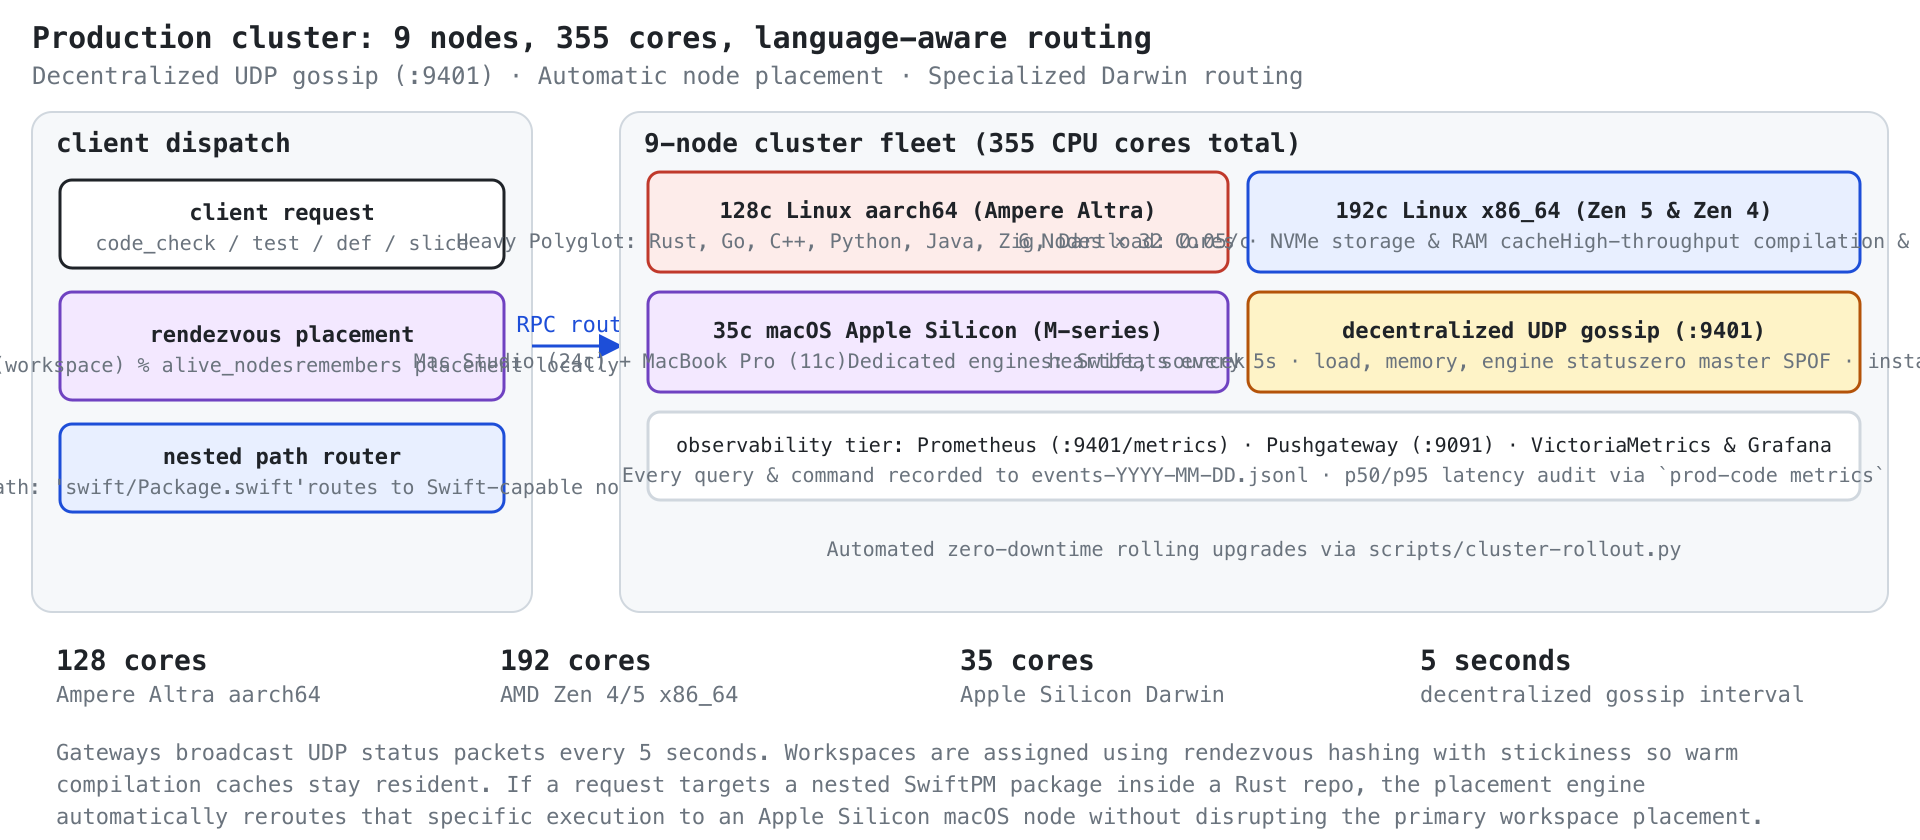
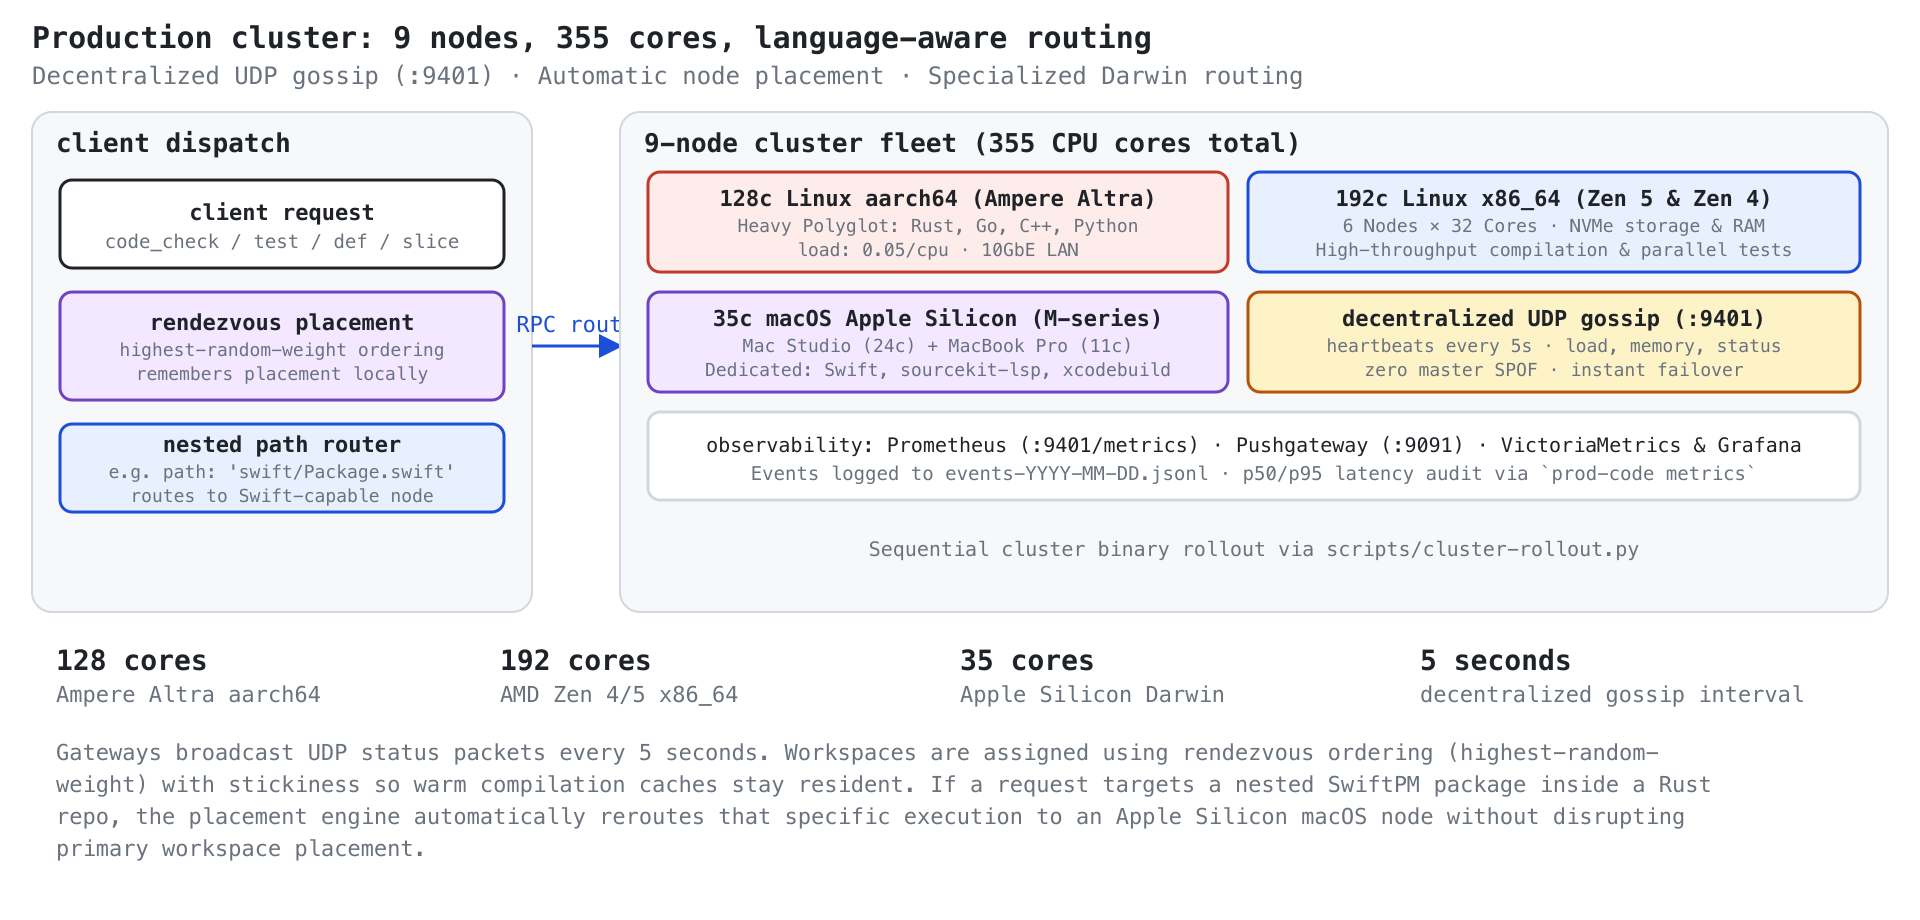
docs: fix release asset names, diagram layout and architecture descriptions
- Use published macOS installer asset names (prod-code-0.3.29-macOS.pkg and .dmg)
  and point Linux/macOS download examples to explicit v0.3.29 release assets
- Update diagram generator and assets to describe isolated worktree overlays over
  shared Salsa base compiler database instead of claiming per-worktree Salsa DBs
- Correct cluster topology figure to describe sequential cluster binary rollout
  via scripts/cluster-rollout.py and highest-random-weight rendezvous placement
- Fix multiline subtitle rendering in scripts/gen_architecture_figures.py box helper
  to prevent text overflow across adjacent boxes, and adjust viewBox canvas heights
  so all captions and paragraphs are fully contained within the viewports
- Replace unconditional safety guarantees in shadow validation figure with accurate
  refusal gate descriptions and force-override documentation
- Re-render all SVG diagrams and 2x PNG raster variants

diff --git a/scripts/gen_architecture_figures.py b/scripts/gen_architecture_figures.py
@@ -45,9 +45,18 @@ def head(W, H, title, sub=None):
 
 def box(x, y, w, h, text, sub=None, fill="white", stroke=INK, bold=True, size=11):
     t = f"<rect x='{x}' y='{y}' width='{w}' height='{h}' rx='6' fill='{fill}' stroke='{stroke}' stroke-width='1.5'/>"
-    t += f"<text x='{x + w / 2}' y='{y + h / 2 + (-2 if sub else 4)}' text-anchor='middle' fill='{INK}' font-size='{size}' font-weight='{'bold' if bold else 'normal'}'>{esc(text)}</text>"
-    if sub:
-        t += f"<text x='{x + w / 2}' y='{y + h / 2 + 13}' text-anchor='middle' fill='{MUTED}' font-size='10'>{esc(sub)}</text>"
+    sub_lines = [line.strip() for line in sub.split('\n')] if sub else []
+    if not sub_lines:
+        t += f"<text x='{x + w / 2}' y='{y + h / 2 + 4}' text-anchor='middle' fill='{INK}' font-size='{size}' font-weight='{'bold' if bold else 'normal'}'>{esc(text)}</text>"
+    elif len(sub_lines) == 1:
+        t += f"<text x='{x + w / 2}' y='{y + h / 2 - 2}' text-anchor='middle' fill='{INK}' font-size='{size}' font-weight='{'bold' if bold else 'normal'}'>{esc(text)}</text>"
+        t += f"<text x='{x + w / 2}' y='{y + h / 2 + 12}' text-anchor='middle' fill='{MUTED}' font-size='9.5'>{esc(sub_lines[0])}</text>"
+    else:
+        start_y = y + (h - (12 + len(sub_lines) * 12)) / 2 + 10
+        t += f"<text x='{x + w / 2}' y='{start_y}' text-anchor='middle' fill='{INK}' font-size='{size}' font-weight='{'bold' if bold else 'normal'}'>{esc(text)}</text>"
+        for i, s_line in enumerate(sub_lines):
+            line_y = start_y + 13 + i * 12
+            t += f"<text x='{x + w / 2}' y='{line_y}' text-anchor='middle' fill='{MUTED}' font-size='9'>{esc(s_line)}</text>"
     return t
 
 def panel(x, y, w, h, title, fill=PANEL):
@@ -74,8 +83,8 @@ def write(name: str, s: Sequence[str]) -> None:
 # ==============================================================================
 # 1. Architecture Overview (Ringfire style)
 # ==============================================================================
-W, H = 960, 420
-s = head(W, H, "Architecture: developer workstation to 9-node cluster, Salsa DB per worktree",
+W, H = 960, 480
+s = head(W, H, "Architecture: developer workstation to 9-node cluster, isolated worktree overlays",
          "Mirroring over mounting · Base64 delta sync · In-memory shadow validation · Gossip routing")
 
 # Left: Workstation Panel
@@ -119,15 +128,15 @@ s.append(arrow(743, 124, 600, 150))
 s.append(arrow(743, 124, 743, 150))
 s.append(arrow(743, 124, 870, 150))
 
-s.append(box(526, 150, 140, 52, "primary Salsa DB", "rust-analyzer in-proc", fill=RING_FILL, stroke=RING))
-s.append(box(676, 150, 134, 52, "shadow engine", "in-memory /dev/shm", fill=OK_FILL, stroke=OK))
+s.append(box(526, 150, 140, 52, "primary Salsa DB", "rust-analyzer in-proc\nshared base engine", fill=RING_FILL, stroke=RING))
+s.append(box(676, 150, 134, 52, "shadow engine", "in-memory /dev/shm\nisolated RAM-disk", fill=OK_FILL, stroke=OK))
 s.append(box(820, 150, 110, 52, "remote exec", "cargo / go / pytest", fill="white", stroke=INK))
 
 s.append(f"<text x='596' y='218' text-anchor='middle' fill='{MUTED}' font-size='10'>answers all queries</text>")
 s.append(f"<text x='743' y='218' text-anchor='middle' fill='{OK}' font-size='10'>0 cache poison</text>")
 s.append(f"<text x='875' y='218' text-anchor='middle' fill='{MUTED}' font-size='10'>warm target/</text>")
 
-s.append(box(526, 234, 404, 36, "fleet topology: 128c aarch64 (Altra) + 192c x86_64 (Zen4/5) + 35c macOS (M-series)", "Swift PM auto-routed to macOS · polyglot on Linux · 30m idle evict · 7d prune", fill="white", stroke=GRID, bold=False, size=10))
+s.append(box(526, 234, 404, 38, "fleet topology: 128c Altra + 192c Zen4/5 + 35c M-series", "Swift PM routed to macOS · polyglot on Linux · 30m evict · 7d prune", fill="white", stroke=GRID, bold=False, size=10))
 
 # Bottom Stat Callouts & Paragraph
 y = 345
@@ -140,14 +149,14 @@ for x, val, label in [
     s.append(f"<text x='{x}' y='{y}' fill='{INK}' font-weight='bold' font-size='14'>{esc(val)}</text>")
     s.append(f"<text x='{x}' y='{y + 16}' fill='{MUTED}' font-size='11'>{esc(label)}</text>")
 
-s.append(para(28, 388, "Workspaces synchronize over 10 GbE LAN using incremental Base64 diffs rather than slow network mounts (NFS/SSHFS). Each git worktree owns an isolated in-process Salsa compiler database (<repo>--wt-<hash>) with zero cross-session cache contamination. Edits are pre-checked on a dedicated RAM-disk shadow engine before disk writes. The cluster gossip mesh auto-routes requests to the quietest capable node, steering Apple Swift workloads to macOS Apple Silicon nodes and polyglot builds to high-throughput 128-core Linux nodes.", 130))
+s.append(para(28, 388, "Workspaces synchronize over 10 GbE LAN using incremental Base64 diffs rather than slow network mounts (NFS/SSHFS). Each git worktree attaches an isolated session overlay (<repo>--wt-<hash>) to a shared base compiler database (SharedWorkspace::with_base) with zero cross-session cache contamination. Edits are pre-checked on a dedicated RAM-disk shadow engine before disk writes. The cluster gossip mesh auto-routes requests to the quietest capable node, steering Apple Swift workloads to macOS Apple Silicon nodes and polyglot builds to high-throughput 128-core Linux nodes.", 125))
 
 write("architecture-overview.svg", s)
 
 # ==============================================================================
 # 2. Dual-Engine Shadow Validation Pipeline
 # ==============================================================================
-W, H = 960, 360
+W, H = 960, 400
 s = head(W, H, "Dual-engine shadow validation: speculative edits tested without cache poisoning",
          "Dry-run proposals evaluated in isolated RAM-disk workspace · Primary Salsa DB stays clean and warm")
 
@@ -167,7 +176,7 @@ s.append(box(350, 86, 342, 60, "primary Salsa DB (rust-analyzer)", "serves all r
 s.append(f"<text x='521' y='160' text-anchor='middle' fill='{RING}' font-weight='bold' font-size='10'>ISOLATED: ZERO CRATE RE-INFER DELAY (saves 21s)</text>")
 
 # Shadow Engine Box
-s.append(box(350, 172, 342, 66, "shadow engine (in-memory /dev/shm)", "applies proposed overlay in RAM disk · runs analyzer diagnostics\nchecks JSON, Markdown, SVG · zero files written to disk", fill=OK_FILL, stroke=OK))
+s.append(box(350, 172, 342, 66, "shadow engine (in-memory /dev/shm)", "applies proposed overlay in RAM disk · runs diagnostics\nchecks JSON, Markdown, SVG · no disk writes", fill=OK_FILL, stroke=OK))
 
 s.append(arrow(706, 116, 766, 116, "query result", INK, "a"))
 s.append(arrow(706, 205, 766, 205, "winner diff", OK, "g"))
@@ -183,26 +192,26 @@ for x, val, label in [
     (28, "21 seconds", "saved per query (no crate re-infer)"),
     (280, "0.4 seconds", "per shadow-run candidate fix"),
     (540, "3+ hypotheses", "evaluated concurrently in RAM"),
-    (780, "100% safe", "zero broken references written"),
+    (780, "Refusal gate", "blocks compile regressions (force overrides)"),
 ]:
     s.append(f"<text x='{x}' y='{y}' fill='{INK}' font-weight='bold' font-size='14'>{esc(val)}</text>")
     s.append(f"<text x='{x}' y='{y + 16}' fill='{MUTED}' font-size='11'>{esc(label)}</text>")
 
-s.append(para(28, 320, "Validating proposed file edits directly inside a shared language server invalidates warm compiler caches, triggering expensive crate re-inference (over 20s in large repositories). prod-code isolates all speculative edits in dedicated RAM-disk shadow engines. Edits that break public symbols or introduce syntax errors are caught in memory without touching disk or primary state.", 130))
+s.append(para(28, 320, "Validating proposed file edits directly inside a shared language server invalidates warm compiler caches, triggering expensive crate re-inference (over 20s in large repositories). prod-code isolates speculative edits in dedicated RAM-disk shadow engines. Edits that introduce diagnostics or syntax errors are refused in memory without touching disk or primary state, while callers retain the option to force-apply.", 125))
 
 write("shadow-validation-pipeline.svg", s)
 
 # ==============================================================================
 # 3. Cluster Topology & Language Routing
 # ==============================================================================
-W, H = 960, 420
+W, H = 960, 460
 s = head(W, H, "Production cluster: 9 nodes, 355 cores, language-aware routing",
          "Decentralized UDP gossip (:9401) · Automatic node placement · Specialized Darwin routing")
 
 # Left: Client Request Dispatch
 s.append(panel(16, 56, 250, 250, "client dispatch"))
 s.append(box(30, 90, 222, 44, "client request", "code_check / test / def / slice", fill="white", stroke=INK))
-s.append(box(30, 146, 222, 54, "rendezvous placement", "hash(workspace) % alive_nodes\nremembers placement locally", fill=PURPLE_FILL, stroke=PURPLE))
+s.append(box(30, 146, 222, 54, "rendezvous placement", "highest-random-weight ordering\nremembers placement locally", fill=PURPLE_FILL, stroke=PURPLE))
 s.append(box(30, 212, 222, 44, "nested path router", "e.g. path: 'swift/Package.swift'\nroutes to Swift-capable node", fill=NET_FILL, stroke=NET))
 
 s.append(arrow(266, 173, 310, 173, "RPC route", NET, "n"))
@@ -211,21 +220,21 @@ s.append(arrow(266, 173, 310, 173, "RPC route", NET, "n"))
 s.append(panel(310, 56, 634, 250, "9-node cluster fleet (355 CPU cores total)"))
 
 # Node 1
-s.append(box(324, 86, 290, 50, "128c Linux aarch64 (Ampere Altra)", "Heavy Polyglot: Rust, Go, C++, Python, Java, Zig, Dart\nload: 0.05/cpu · 10GbE LAN", fill=RING_FILL, stroke=RING))
+s.append(box(324, 86, 290, 50, "128c Linux aarch64 (Ampere Altra)", "Heavy Polyglot: Rust, Go, C++, Python\nload: 0.05/cpu · 10GbE LAN", fill=RING_FILL, stroke=RING))
 
 # Node 2-7
-s.append(box(624, 86, 306, 50, "192c Linux x86_64 (Zen 5 & Zen 4)", "6 Nodes × 32 Cores · NVMe storage & RAM cache\nHigh-throughput compilation & parallel tests", fill=NET_FILL, stroke=NET))
+s.append(box(624, 86, 306, 50, "192c Linux x86_64 (Zen 5 & Zen 4)", "6 Nodes × 32 Cores · NVMe storage & RAM\nHigh-throughput compilation & parallel tests", fill=NET_FILL, stroke=NET))
 
 # Node 8-9 macOS
-s.append(box(324, 146, 290, 50, "35c macOS Apple Silicon (M-series)", "Mac Studio (24c) + MacBook Pro (11c)\nDedicated engines: Swift, sourcekit-lsp, xcodebuild", fill=PURPLE_FILL, stroke=PURPLE))
+s.append(box(324, 146, 290, 50, "35c macOS Apple Silicon (M-series)", "Mac Studio (24c) + MacBook Pro (11c)\nDedicated: Swift, sourcekit-lsp, xcodebuild", fill=PURPLE_FILL, stroke=PURPLE))
 
 # Gossip Mesh Box
-s.append(box(624, 146, 306, 50, "decentralized UDP gossip (:9401)", "heartbeats every 5s · load, memory, engine status\nzero master SPOF · instant failover", fill=AMBER_FILL, stroke=AMBER))
+s.append(box(624, 146, 306, 50, "decentralized UDP gossip (:9401)", "heartbeats every 5s · load, memory, status\nzero master SPOF · instant failover", fill=AMBER_FILL, stroke=AMBER))
 
 # Telemetry Box
-s.append(box(324, 206, 606, 44, "observability tier: Prometheus (:9401/metrics) · Pushgateway (:9091) · VictoriaMetrics & Grafana", "Every query & command recorded to events-YYYY-MM-DD.jsonl · p50/p95 latency audit via `prod-code metrics`", fill="white", stroke=GRID, bold=False, size=10))
+s.append(box(324, 206, 606, 44, "observability: Prometheus (:9401/metrics) · Pushgateway (:9091) · VictoriaMetrics & Grafana", "Events logged to events-YYYY-MM-DD.jsonl · p50/p95 latency audit via `prod-code metrics`", fill="white", stroke=GRID, bold=False, size=10))
 
-s.append(f"<text x='627' y='278' text-anchor='middle' fill='{MUTED}' font-size='10'>Automated zero-downtime rolling upgrades via scripts/cluster-rollout.py</text>")
+s.append(f"<text x='627' y='278' text-anchor='middle' fill='{MUTED}' font-size='10'>Sequential cluster binary rollout via scripts/cluster-rollout.py</text>")
 
 y = 335
 for x, val, label in [
@@ -237,7 +246,7 @@ for x, val, label in [
     s.append(f"<text x='{x}' y='{y}' fill='{INK}' font-weight='bold' font-size='14'>{esc(val)}</text>")
     s.append(f"<text x='{x}' y='{y + 16}' fill='{MUTED}' font-size='11'>{esc(label)}</text>")
 
-s.append(para(28, 380, "Gateways broadcast UDP status packets every 5 seconds. Workspaces are assigned using rendezvous hashing with stickiness so warm compilation caches stay resident. If a request targets a nested SwiftPM package inside a Rust repo, the placement engine automatically reroutes that specific execution to an Apple Silicon macOS node without disrupting the primary workspace placement.", 130))
+s.append(para(28, 380, "Gateways broadcast UDP status packets every 5 seconds. Workspaces are assigned using rendezvous ordering (highest-random-weight) with stickiness so warm compilation caches stay resident. If a request targets a nested SwiftPM package inside a Rust repo, the placement engine automatically reroutes that specific execution to an Apple Silicon macOS node without disrupting primary workspace placement.", 125))
 
 write("cluster-topology.svg", s)
 

diff --git a/README.md b/README.md
@@ -47,7 +47,7 @@ tests complement those scenarios. The required coverage floor is 80% of regions 
 
 ## Architecture
 
-![Architecture: developer workstation to 9-node cluster, Salsa DB per worktree](docs/img/architecture-overview.svg)
+![Architecture: developer workstation to 9-node cluster, isolated worktree overlays over shared Salsa analysis](docs/img/architecture-overview.svg)
 
 <details>
 <summary>Click to view Mermaid flowchart and component mapping</summary>
@@ -128,20 +128,20 @@ Choose your preferred installation method for the `prod-code` CLI:
 curl -fsSL https://prod.codes/install.sh | sh
 
 # Debian / Ubuntu (.deb)
-curl -fsSLO https://github.com/alex09x/prod-code/releases/latest/download/prod-code_0.3.29_amd64.deb
+curl -fsSLO https://github.com/alex09x/prod-code/releases/download/v0.3.29/prod-code_0.3.29_amd64.deb
 sudo dpkg -i prod-code_0.3.29_amd64.deb
 
 # RHEL / Fedora / Rocky Linux (.rpm)
-sudo rpm -i https://github.com/alex09x/prod-code/releases/latest/download/prod-code-0.3.29-1.x86_64.rpm
+sudo rpm -i https://github.com/alex09x/prod-code/releases/download/v0.3.29/prod-code-0.3.29-1.x86_64.rpm
 
 # Arch Linux (.pkg.tar.gz)
-sudo pacman -U https://github.com/alex09x/prod-code/releases/latest/download/prod-code-0.3.29-1-x86_64.pkg.tar.gz
+sudo pacman -U https://github.com/alex09x/prod-code/releases/download/v0.3.29/prod-code-0.3.29-1-x86_64.pkg.tar.gz
 
 # Build from source
 cargo install --path crates/prod-code-client
 ```
 
-Native notarized macOS installers (`prod-code-0.3.29-arm64.pkg` and `.dmg`) and standalone binaries for Linux (`x86_64`, `aarch64`) and macOS (`arm64` Apple Silicon) are available on [GitHub Releases](https://github.com/alex09x/prod-code/releases/latest).
+Native notarized macOS installers ([`prod-code-0.3.29-macOS.pkg`](https://github.com/alex09x/prod-code/releases/download/v0.3.29/prod-code-0.3.29-macOS.pkg) and [`.dmg`](https://github.com/alex09x/prod-code/releases/download/v0.3.29/prod-code-0.3.29-macOS.dmg)) and standalone binaries for Linux (`x86_64`, `aarch64`) and macOS (`arm64` Apple Silicon) are available on [GitHub Releases](https://github.com/alex09x/prod-code/releases/tag/v0.3.29).
 
 ### In-Place Self-Updater
 
